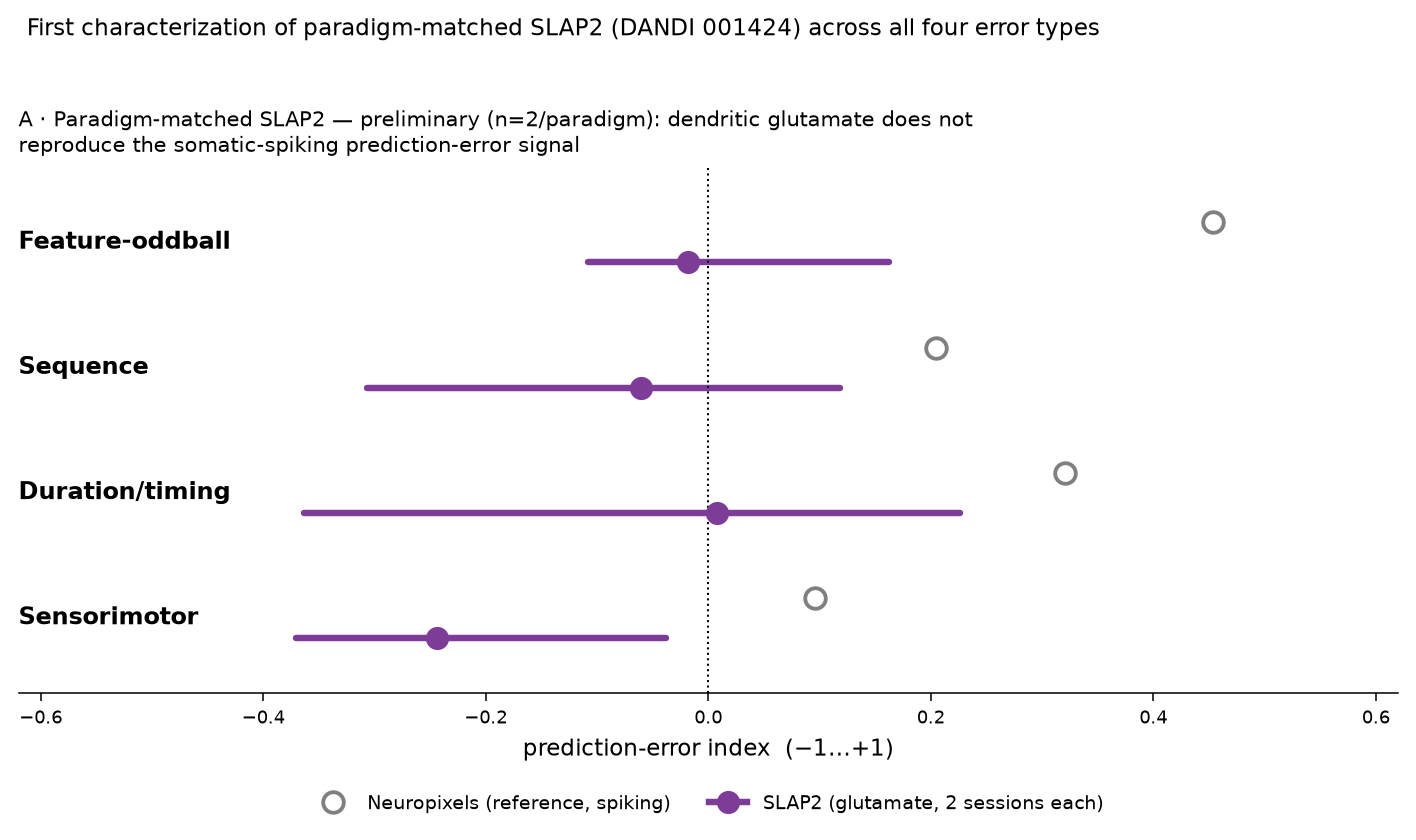
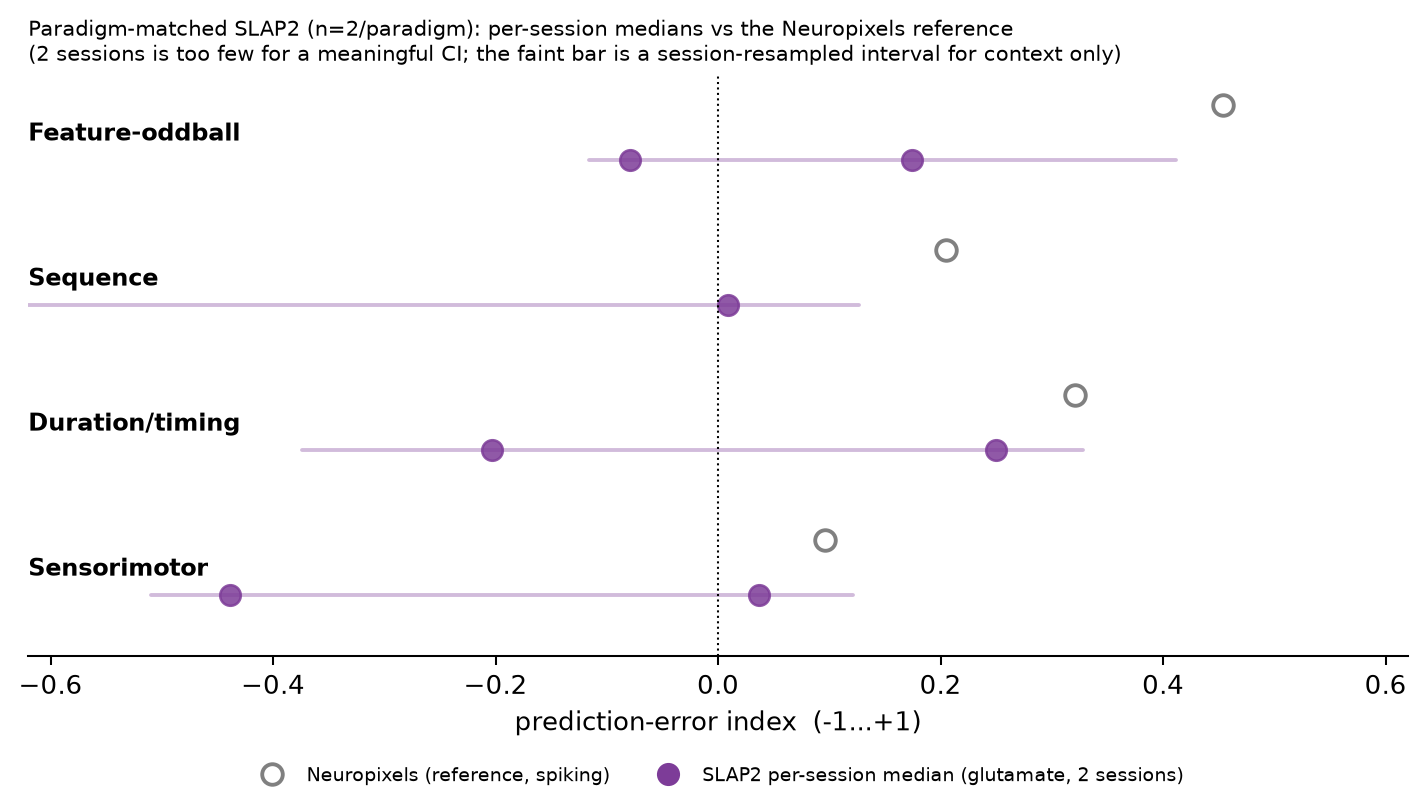
Address second code audit: reproducibility + stats-method fixes
- Result 8 (P0): the Neuropixels by-area/by-layer/superficial DvI was committed as CSVs but
  computed in no notebook. mesoscope_sequence_area.ipynb now computes BOTH sides; the NP path
  uses the default_qc responsive-unit gate that produced the committed numbers (reproduces
  VISp +0.25 n=580, superficial +0.18, layer profile). Under the corrected probe mapping VISl
  grows 99->405 units (+0.16->+0.18, still n.s.); the V1 sign-flip conclusion holds and VISl now
  agrees across modalities. CSVs regenerated from the notebook.
- audit_locomotion.py (P1): emitted only open_running_max; the pre-registered rule is >=3 on ALL
  four types (min). Added open_running_min + passes_rule so the artifact encodes the decision;
  added DANDI pagination and a tolerant running_speed key lookup.
- SLAP2 bootstrap (P1): strat_ci resampled ROIs within a fixed subject set (no between-animal
  variance) -> at n=2 the CI was spuriously tight and self-contradicted the CSV p. Now reports the
  two per-session medians (+ a wide session-resampled interval for context only); notebook re-run.
- mesoscope QUICK subset (P1): was hand-picked by outcome ('2 VISl-pos, 2 both-neg'); now
  result-blind first-N, and QUICK no longer overwrites the authoritative full-run CSVs.
- aid_stale (P2): split into aid_changed (healed) vs aid_unresolved (unverified) — opposite states.
- sensorimotor notebook takeaway/header updated to the null result (was self-contradictory with
  the new Contrast-3 null).
[…]

diff --git a/scripts/audit_locomotion.py b/scripts/audit_locomotion.py
@@ -13,7 +13,11 @@ API = "https://api.dandiarchive.org/api/dandisets/{ds}/versions/draft/assets/"
 RUN_THRESH = 1.0  # cm/s, matches repo's ">1 cm/s" running definition
 
 def assets(ds):
-    return requests.get(API.format(ds=ds), params={"page_size": 200}, timeout=60).json()["results"]
+    out, url_, params = [], API.format(ds=ds), {"page_size": 200}
+    while url_:                                  # follow pagination (dandiset can exceed one page)
+        j = requests.get(url_, params=params, timeout=60).json()
+        out.extend(j["results"]); url_ = j.get("next"); params = None
+    return out
 
 def url(ds, aid):
     return requests.get(API.format(ds=ds) + aid + "/download/",
@@ -37,8 +41,14 @@ def one(x):
         if "Sensory-motor mismatch block_presentations" not in iv:
             f.close(); out["skip"] = "not sensorimotor"; return out
 
-        # running speed on the session clock
-        rs = f["/processing/running/running_speed"]
+        # running speed on the session clock (tolerant key lookup — a missing key
+        # would otherwise land in the bare except and silently drop the session)
+        rgrp = f["/processing/running"]
+        rkey = "running_speed" if "running_speed" in rgrp else next(
+            (k for k in rgrp.keys() if "speed" in k.lower()), None)
+        if rkey is None:
+            f.close(); out["skip"] = "no running_speed"; return out
+        rs = rgrp[rkey]
         speed = rs["data"][:].astype(float)
         rt = rs["timestamps"][:].astype(float)
         out["frac_run_session"] = float((np.abs(speed) > RUN_THRESH).mean())
@@ -72,9 +82,17 @@ def one(x):
                           "n_rest": int(np.nansum(run <= RUN_THRESH))}
             res[label] = per
         out["blocks"] = res
-        # the gating number: running open-loop events for motor-contingent types
+        # the gating number. Pre-registration rule (plan §12) is >=3 running open-loop
+        # events on ALL FOUR motor-contingent deviant types -> the MIN across types is
+        # what the inclusion decision turns on. (open_running_max is kept for context
+        # only; a session with 8/0/0/0 has max=8 but min=0 and must be EXCLUDED.)
         op = res.get("open") or {}
-        out["open_running_max"] = max((v["n_running"] for v in op.values()), default=0)
+        motor = {k: v for k, v in op.items() if k.startswith("motor_")}
+        runs = [v["n_running"] for v in motor.values()]
+        out["open_running_min"] = min(runs) if len(motor) == 4 else 0
+        out["open_running_max"] = max(runs, default=0)
+        out["n_motor_types"] = len(motor)
+        out["passes_rule"] = bool(len(motor) == 4 and min(runs) >= 3)  # the committed inclusion set
         out["open_types"] = {k: (v["n"], v["n_running"]) for k, v in op.items()}
         f.close()
     except Exception as e:
@@ -93,4 +111,8 @@ if __name__ == "__main__":
         if "err" in r: print("ERR ", r["path"].split("/")[-1], r["err"]); continue
         if "skip" in r: continue
         print(f"{r['path'].split('/')[-1][:52]} run={r['frac_run_session']:.2f} "
-              f"open_running_max={r['open_running_max']} {r['open_types']}")
+              f"min={r.get('open_running_min')} max={r['open_running_max']} "
+              f"{'PASS' if r.get('passes_rule') else 'excl'} {r['open_types']}")
+    inc = [r['path'].split('/')[-1] for r in res if r.get("passes_rule")]
+    print(f"\n{len(inc)} sessions pass the >=3-on-all-4 rule (the committed inclusion set):")
+    for p in inc: print("  ", p)

diff --git a/openscope_ccf/__init__.py b/openscope_ccf/__init__.py
@@ -30,25 +30,33 @@ def load_session_index(refresh_aids: bool = False) -> pd.DataFrame:
     session file is re-uploaded (the path is stable, the id is not), and 001637
     is draft-only so no id is permanent. Pass ``refresh_aids=True`` to re-resolve
     every row's asset id from the live dandiset by path — self-healing against
-    re-uploads at the cost of one API call per session. Rows whose path no longer
-    resolves keep their stored id and are flagged in a new ``aid_stale`` column.
+    re-uploads at the cost of one API call per session. Two flag columns are added
+    (these are *opposite* states, deliberately not merged into one ``stale`` flag):
+
+    - ``aid_changed``    : the live id differed from the shipped snapshot and was
+                           updated — the row is now FRESH (a re-upload was healed).
+    - ``aid_unresolved`` : the path did not resolve on the live dandiset, so the
+                           shipped id was kept UNVERIFIED (do not trust it blindly).
     """
     idx = pd.read_csv(files("openscope_ccf").joinpath("data/ccf_session_index.csv"))
     if not refresh_aids:
         return idx
     from .nwbio import resolve_asset
-    cur, stale = [], []
+    cur, changed, unresolved = [], [], []
     for _, row in idx.iterrows():
         try:
             aid = resolve_asset(str(row.subject), str(row.date))
             cur.append(aid)
-            stale.append(aid != row.aid)
+            changed.append(aid != row.aid)   # refreshed to a new id -> now fresh
+            unresolved.append(False)
         except LookupError:
-            cur.append(row.aid)
-            stale.append(True)
+            cur.append(row.aid)              # kept the shipped id, could not verify
+            changed.append(False)
+            unresolved.append(True)
     idx = idx.copy()
     idx["aid"] = cur
-    idx["aid_stale"] = stale
+    idx["aid_changed"] = changed
+    idx["aid_unresolved"] = unresolved
     return idx
 
 

diff --git a/README.md b/README.md
@@ -206,6 +206,16 @@ confidence intervals now use a **hierarchical bootstrap** (resample sessions, th
 units within each) rather than resampling units within a fixed session set — the
 older version produced intervals that were too tight; this widened some CIs (notably
 mesoscope V1 in Result 8, which moved from a significant negative to a null).
+A second audit pass tightened reproducibility: Result 8's Neuropixels side (by-area
+and by-layer DvI, superficial-matched) is now computed in
+`mesoscope_sequence_area.ipynb` rather than only committed as a CSV; that path uses the
+`default_qc` responsive-unit gate that produced the original numbers (VISp +0.25 n=580),
+and under the corrected probe mapping the VISl set grows (n 99 → 405, still +0.18).
+`audit_locomotion.py` now emits `open_running_min` and a `passes_rule` flag that encode
+the actual ≥3-on-all-four inclusion rule (it previously reported only the max), and
+paginates the DANDI asset list. The SLAP2 n=2 summary reports two per-session medians
+instead of an ROI-level CI (which had omitted between-animal variance). The index loader
+splits its refresh flag into `aid_changed` (healed) vs `aid_unresolved` (unverified).
 Real CCF alignment is present in **57 of 60**
 ecephys sessions (`electrodes.location`/`x`/`y`/`z` populated); the rest carry
 placeholder `"unknown"` locations and omit the `x`/`y`/`z` datasets entirely.
@@ -707,8 +717,12 @@ prediction-error index in each paradigm at dendritic-glutamate resolution for th
 ![Paradigm-matched SLAP2, four error types](figures/slap2_fourparadigm.png)
 
 **At n = 2 sessions per paradigm, none of the four SLAP2 paradigms reproduces the positive
-prediction-error index that Neuropixels spiking shows** — all sit at or below zero (oddball
-−0.02, sequence −0.06, duration +0.01, sensorimotor −0.24). This extends the Result 2 cross-scale
+prediction-error index that Neuropixels spiking shows** — the pooled medians sit at or below zero
+(oddball −0.02, sequence −0.06, duration +0.01, sensorimotor −0.24). With only two sessions we
+report the **two per-session medians** rather than a bootstrap CI (a within-subject ROI bootstrap
+would omit the between-animal variance that dominates at n = 2 and give a spuriously tight
+interval). The per-session values are wide apart — e.g. sequence −0.79 / +0.01, sensorimotor
++0.04 / −0.44 — which is exactly why no CI is warranted yet. This extends the Result 2 cross-scale
 finding (imaging modalities show weak/absent oddball effects) to the dendritic-glutamate scale
 and to the non-oddball paradigms.
 
@@ -742,7 +756,7 @@ units-only bootstrap made these intervals too tight (fixed in the audit below):
 | area | **Neuropixels** DvI (90°) | **Mesoscope** DvI (90°) |
 |---|---|---|
 | **VISp** (primary V1) | **+0.25** [+0.01, +0.40] — *significant, strongest area* | **−0.08** [−0.28, +0.14] — **null** |
-| **VISl** (lateral) | +0.16 [−0.06, +0.41] — n.s. (n=99) | +0.18 [+0.03, +0.31] — significant |
+| **VISl** (lateral) | +0.18 [−0.01, +0.33] — n.s. (n=405) | +0.18 [+0.03, +0.31] — significant |
 
 **In V1 the two modalities give opposite point estimates, and where spiking is significantly
 positive, 2-photon is a null.** Spiking finds the sequence-PE *strongest* in primary V1 (+0.25,
@@ -750,8 +764,9 @@ significant, present across all areas); mesoscope 2-photon in V1 is a wide null 
 (9 of 16 sessions negative — the negative point estimate is *not* significant once between-session
 variance is counted). So the honest statement is a **cross-modality discrepancy in V1**: the
 spiking deviance signal that is strong and significant in V1 does not appear in the 2-photon
-signal there. The apparent VISl similarity (+0.16 vs +0.18) is not a match to lean on either —
-the Neuropixels VISl estimate is not significant (only 99 units). The same direction holds for
+signal there. In VISl the two modalities *agree* — both positive, +0.18 (Neuropixels) vs +0.18
+(mesoscope) — though the Neuropixels VISl estimate is not itself significant (its CI just
+includes zero even at n=405 under the corrected probe mapping). The same direction holds for
 feature-oddball (Result 1): Neuropixels V1 is the strongest area (+0.49), while mesoscope
 feature-oddball is weak pooled (Result 2, +0.11).
 
@@ -775,7 +790,10 @@ and it sharpens (rather than resolves) the cross-scale question raised in Result
 A per-subject magnitude spread sits on top of the area pattern (a few mesoscope sessions are
 negative in both areas) — a candidate for a behavioral-state analysis as more data accrues.
 Reproduce: [`notebooks/mesoscope_sequence_area.ipynb`](notebooks/mesoscope_sequence_area.ipynb)
-(QUICK mode runs 4 sessions); values in
+computes **both** sides — the mesoscope area DvI *and* the Neuropixels area/layer/superficial
+breakdown (exact probe→area mapping, `default_qc` responsive units, hierarchical CI) — and writes
+both CSVs on a full run (QUICK mode is a result-blind first-N preview and does not overwrite the
+authoritative tables). Values in
 [`data/seq_area_comparison.csv`](data/seq_area_comparison.csv) and
 [`data/seq_visp_layers.csv`](data/seq_visp_layers.csv).
 
